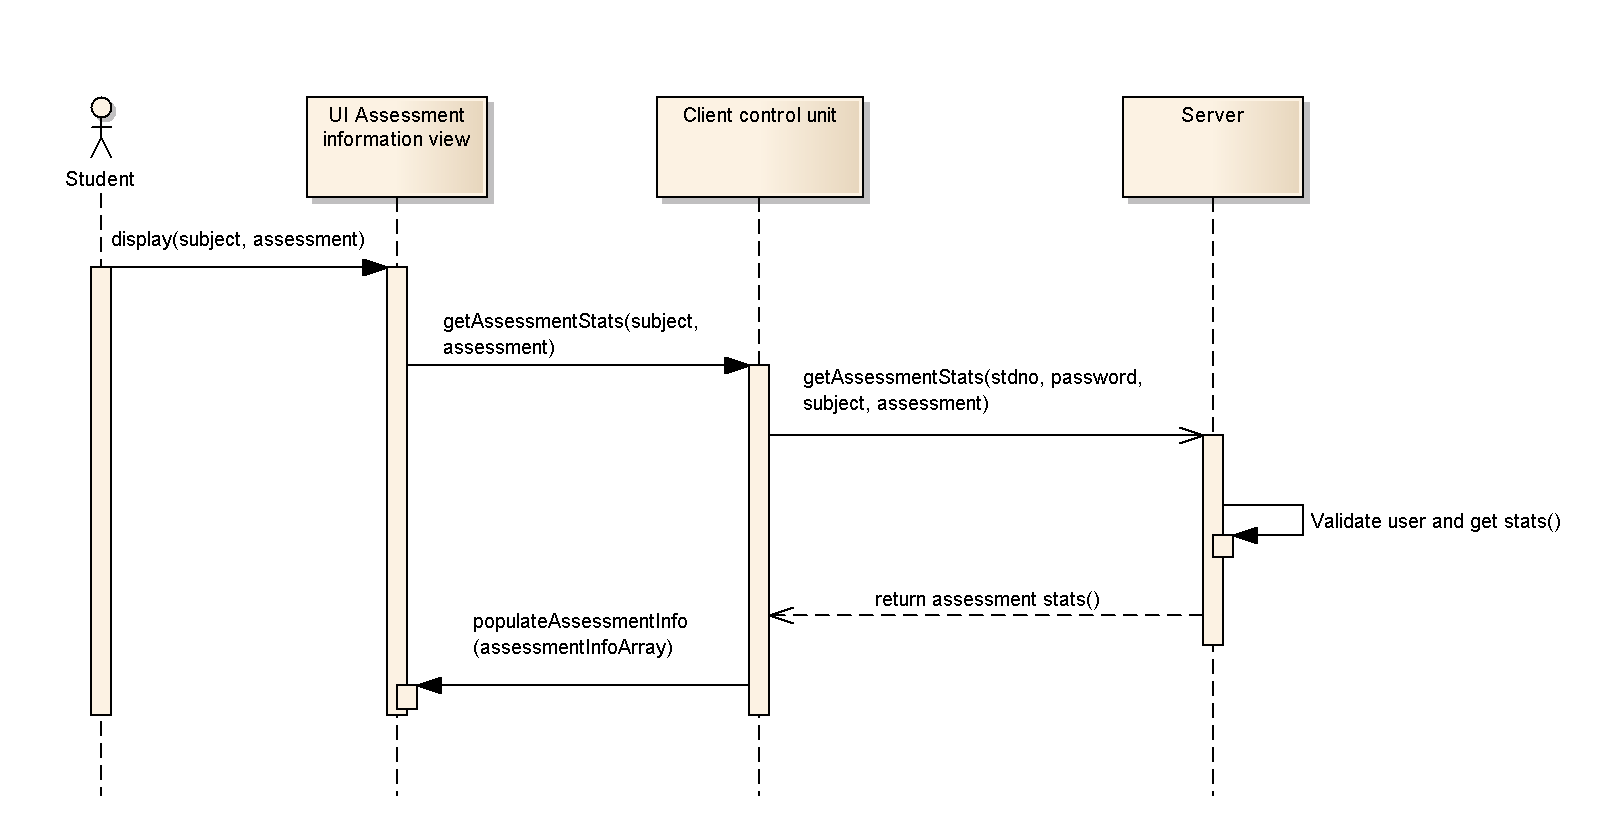
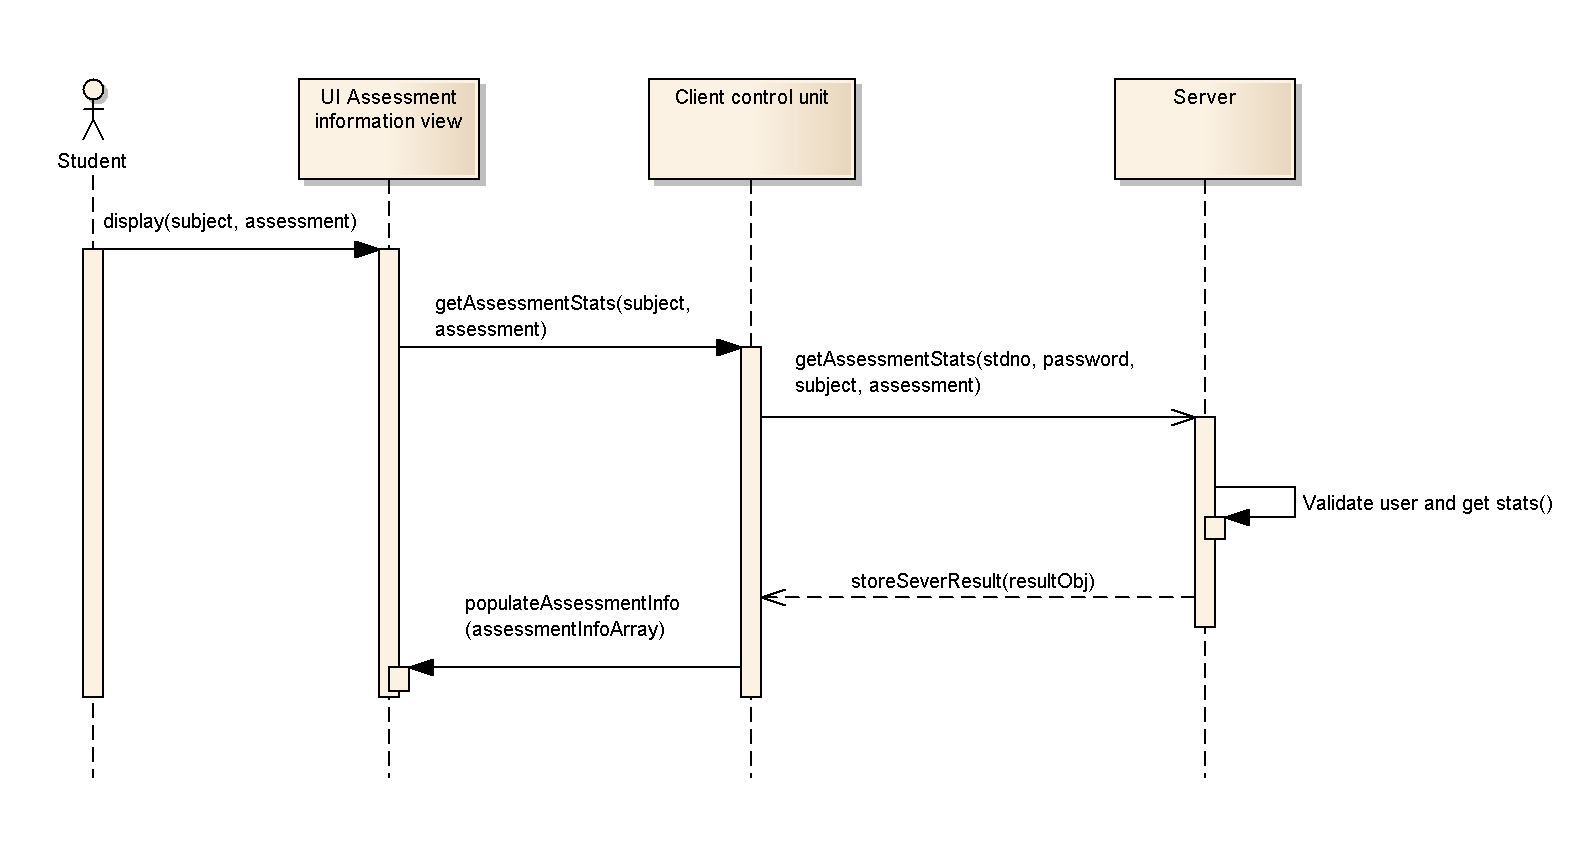
Changed change log

diff --git a/Design document/Design document.tex b/Design document/Design document.tex
@@ -40,7 +40,7 @@
 	     Zenadia Groenewald				(12265676) \\[1em]
 	     Alfred Ngako					(12236731) \\[1em]
 	  	 Gerhard Smit					(12282945) \\[1em]
-	     {\bf Version 0.2}
+	     {\bf Version 0.3}
 	    
 	\end{center}
 	
@@ -59,6 +59,8 @@
 		11/03/2014 & v 0.1 & Added android application: UI design, Process Specifications and user work flow & Mathys Ellis \\
 		\hline
 		11/03/2014 & v 0.2 & Some database tables added & Melany Barnes \\
+		\hline
+		12/03/2014 & v 0.3 & Added android application: API. Modified Process Specifications & Mathys Ellis \\
 		\hline
 		%\end{tabbing}
 		\end{tabular}

diff --git a/Design document/subdocs/Android_app.tex b/Design document/subdocs/Android_app.tex
@@ -8,6 +8,11 @@
 
 \linespread{1.1} % Line spacing
 \subsection{API}
+\begin{figure}[H]
+\centering	
+\framebox{\includegraphics[scale=0.65]{./subdocs/AndroidImages/API.png}}
+\caption{Android Application API diagram}
+\end{figure}
 
 \subsection{Process specifications}
 \begin{figure}[H]
@@ -52,8 +57,6 @@
 \caption{Android Application process specifications: Assessment information view UI processes}
 \end{figure}
 
-
-\newpage
 \subsubsection{UI user workflow}
 \begin{figure}[H]
 \centering	
